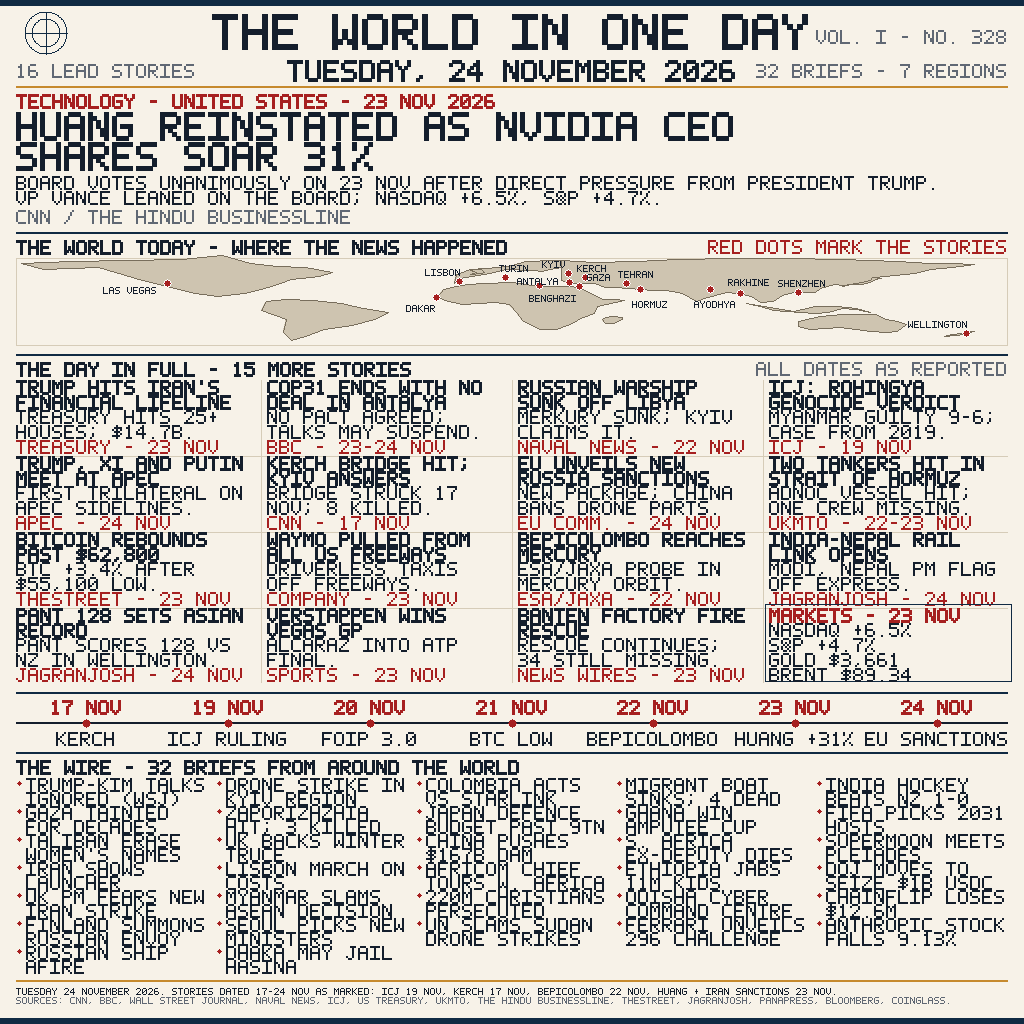
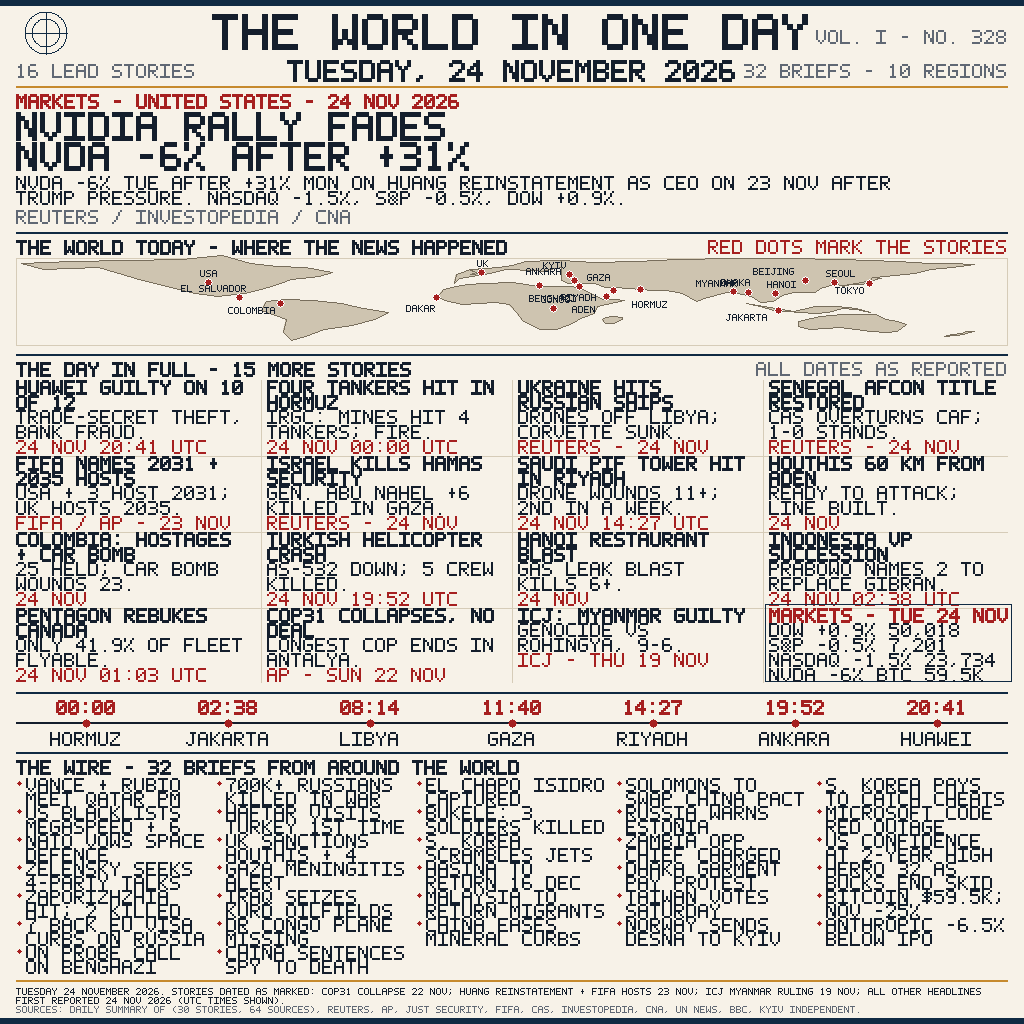
Revise front page to research pack v2: Nvidia rally fades as 24 Nov main story, 16 v2 leads, 32 v2 briefs, 24 Nov UTC timeline, corrected in-line dates (ICJ 19 Nov, COP31 22 Nov, Huang/FIFA 23 Nov)

diff --git a/main.py b/main.py
@@ -3,14 +3,14 @@
 in one 1024x1024 PNG. Python 3.13, standard library only, no network,
 fully deterministic (same bytes on every run).
 
-Draws a dense newspaper front page, in code, from the research pack:
-a masthead naming the day, the verified main story (Huang reinstated at
-Nvidia, shares +31%, 23 Nov), a schematic world map with the stories
-plotted, 15 more lead stories in four columns, a 17-24 Nov UTC timeline,
-32 wire briefs, and a date-check footer that dates every older story
-in-line (ICJ 19 Nov, Kerch Bridge 17 Nov, BepiColombo 22 Nov, Huang and
-Iran sanctions 23 Nov). No story is dated 24 Nov unless it happened or
-was first reported on 24 Nov.
+Draws a dense newspaper front page, in code, from the research pack v2:
+a masthead naming the day, the verified main story (Nvidia rally fades
+24 Nov: NVDA -6% after +31% Mon on Huang's reinstatement, 23 Nov), a
+schematic world map with the stories plotted, 15 more lead stories in
+four columns, a 24 Nov UTC timeline, 32 wire briefs, and a date-check
+footer that dates every older story in-line (ICJ 19 Nov, COP31 22 Nov,
+Huang and FIFA hosts 23 Nov). No story is dated 24 Nov unless it
+happened or was first reported on 24 Nov.
 
 Rendering is hand-rolled: a 5x7 bitmap font drawn at several scales, a
 scanline polygon filler for the map, and a small PNG encoder. Nothing is
@@ -330,21 +330,26 @@ CONTINENTS = [
 # (lon, lat, label, label dx, label dy) - dots mark the lead stories.
 # Labels are drawn at scale 1; dx/dy keep them off the dot and off land.
 MAP_DOTS = [
-    (-115.1, 36.2, "LAS VEGAS", -64, 4),
-    (114.0, 22.5, "SHENZHEN", -20, -12),
-    (36.5, 45.3, "KERCH", -8, -12),
+    (-100.0, 38.0, "USA", -8, -12),
+    (-74.0, 4.6, "COLOMBIA", -52, 4),
+    (-88.9, 13.7, "EL SALVADOR", -58, -12),
+    (-1.0, 52.0, "UK", -4, -12),
+    (31.0, 49.0, "KYIV", -26, -12),
     (20.0, 32.1, "BENGHAZI", -10, 10),
-    (51.4, 35.7, "TEHRAN", -8, -12),
-    (30.7, 36.9, "ANTALYA", -52, -4),
-    (82.2, 26.8, "AYODHYA", -16, 12),
-    (174.8, -41.3, "WELLINGTON", -58, -12),
     (34.5, 31.5, "GAZA", 8, -12),
-    (-9.1, 38.7, "LISBON", -34, -12),
-    (93.0, 20.0, "RAKHINE", -12, -14),
-    (30.5, 50.5, "KYIV", -26, -12),
+    (46.7, 24.6, "RIYADH", -52, 4),
+    (44.2, 15.3, "ADEN", -34, 10),
     (56.5, 26.5, "HORMUZ", -8, 12),
-    (7.7, 45.0, "TURIN", -6, -12),
+    (32.8, 39.9, "ANKARA", -48, -12),
+    (25.0, -2.0, "CONGO", -12, -12),
     (-17.4, 14.7, "DAKAR", -30, 8),
+    (90.4, 23.8, "DHAKA", -12, -12),
+    (96.0, 21.9, "MYANMAR", -52, -12),
+    (106.8, -6.2, "JAKARTA", -52, 4),
+    (105.8, 21.0, "HANOI", -8, -12),
+    (116.4, 39.9, "BEIJING", -52, -12),
+    (127.0, 37.5, "SEOUL", -8, -12),
+    (139.7, 35.7, "TOKYO", -34, 4),
 ]
 
 # ---------------------------------------------------------------- content
@@ -356,126 +361,127 @@ MAP_DOTS = [
 # (12px per character); briefs wrap at 15 characters for their 190px
 # columns.
 MAIN = {
-    "kicker": "TECHNOLOGY - UNITED STATES - 23 NOV 2026",
-    "headline": ["HUANG REINSTATED AS NVIDIA CEO",
-                 "SHARES SOAR 31%"],
-    "summary": ("BOARD VOTES UNANIMOUSLY ON 23 NOV AFTER DIRECT PRESSURE "
-                "FROM PRESIDENT TRUMP. VP VANCE LEANED ON THE BOARD; "
-                "NASDAQ +6.5%, S&P +4.7%."),
-    "source": "CNN / THE HINDU BUSINESSLINE",
+    "kicker": "MARKETS - UNITED STATES - 24 NOV 2026",
+    "headline": ["NVIDIA RALLY FADES",
+                 "NVDA -6% AFTER +31%"],
+    "summary": ("NVDA -6% TUE AFTER +31% MON ON HUANG REINSTATEMENT AS CEO "
+                "ON 23 NOV AFTER TRUMP PRESSURE. NASDAQ -1.5%, S&P -0.5%, "
+                "DOW +0.9%."),
+    "source": "REUTERS / INVESTOPEDIA / CNA",
 }
 
 # (headline, summary, source + date) - leads 2..16, in research-pack order.
 LEADS = [
-    ("TRUMP HITS IRAN'S FINANCIAL LIFELINE",
-     "TREASURY HITS 25+ HOUSES; $14.7B.",
-     "TREASURY - 23 NOV"),
-    ("COP31 ENDS WITH NO DEAL IN ANTALYA",
-     "NO PACT AGREED; TALKS MAY SUSPEND.",
-     "BBC - 23-24 NOV"),
-    ("RUSSIAN WARSHIP SUNK OFF LIBYA",
-     "MERKURY SUNK; KYIV CLAIMS IT.",
-     "NAVAL NEWS - 22 NOV"),
-    ("ICJ: ROHINGYA GENOCIDE VERDICT",
-     "MYANMAR GUILTY 9-6; CASE FROM 2019.",
-     "ICJ - 19 NOV"),
-    ("TRUMP, XI AND PUTIN MEET AT APEC",
-     "FIRST TRILATERAL ON APEC SIDELINES.",
-     "APEC - 24 NOV"),
-    ("KERCH BRIDGE HIT; KYIV ANSWERS",
-     "BRIDGE STRUCK 17 NOV; 8 KILLED.",
-     "CNN - 17 NOV"),
-    ("EU UNVEILS NEW RUSSIA SANCTIONS",
-     "NEW PACKAGE; CHINA BANS DRONE PARTS.",
-     "EU COMM. - 24 NOV"),
-    ("TWO TANKERS HIT IN STRAIT OF HORMUZ",
-     "ADNOC VESSEL HIT; ONE CREW MISSING.",
-     "UKMTO - 22-23 NOV"),
-    ("BITCOIN REBOUNDS PAST $62,800",
-     "BTC +3.4% AFTER $55,100 LOW.",
-     "THESTREET - 23 NOV"),
-    ("WAYMO PULLED FROM ALL US FREEWAYS",
-     "DRIVERLESS TAXIS OFF FREEWAYS.",
-     "COMPANY - 23 NOV"),
-    ("BEPICOLOMBO REACHES MERCURY",
-     "ESA/JAXA PROBE IN MERCURY ORBIT.",
-     "ESA/JAXA - 22 NOV"),
-    ("INDIA-NEPAL RAIL LINK OPENS",
-     "MODI, NEPAL PM FLAG OFF EXPRESS.",
-     "JAGRANJOSH - 24 NOV"),
-    ("PANT 128 SETS ASIAN RECORD",
-     "PANT SCORES 128 VS NZ IN WELLINGTON.",
-     "JAGRANJOSH - 24 NOV"),
-    ("VERSTAPPEN WINS VEGAS GP",
-     "ALCARAZ INTO ATP FINAL.",
-     "SPORTS - 23 NOV"),
-    ("BANTEN FACTORY FIRE RESCUE",
-     "RESCUE CONTINUES; 34 STILL MISSING.",
-     "NEWS WIRES - 23 NOV"),
+    ("HUAWEI GUILTY ON 10 OF 12",
+     "TRADE-SECRET THEFT, BANK FRAUD.",
+     "24 NOV 20:41 UTC"),
+    ("FOUR TANKERS HIT IN HORMUZ",
+     "IRGC: MINES HIT 4 TANKERS; FIRE.",
+     "24 NOV 00:00 UTC"),
+    ("UKRAINE HITS RUSSIAN SHIPS",
+     "DRONES OFF LIBYA; CORVETTE SUNK.",
+     "REUTERS - 24 NOV"),
+    ("SENEGAL AFCON TITLE RESTORED",
+     "CAS OVERTURNS CAF; 1-0 STANDS.",
+     "REUTERS - 24 NOV"),
+    ("FIFA NAMES 2031 + 2035 HOSTS",
+     "USA + 3 HOST 2031; UK HOSTS 2035.",
+     "FIFA / AP - 23 NOV"),
+    ("ISRAEL KILLS HAMAS SECURITY",
+     "GEN. ABU NAHEL +6 KILLED IN GAZA.",
+     "REUTERS - 24 NOV"),
+    ("SAUDI PIF TOWER HIT IN RIYADH",
+     "DRONE WOUNDS 11+; 2ND IN A WEEK.",
+     "24 NOV 14:27 UTC"),
+    ("HOUTHIS 60 KM FROM ADEN",
+     "READY TO ATTACK; LINE BUILT.",
+     "24 NOV"),
+    ("COLOMBIA: HOSTAGES + CAR BOMB",
+     "25 HELD; CAR BOMB WOUNDS 23.",
+     "24 NOV"),
+    ("TURKISH HELICOPTER CRASH",
+     "AS-532 DOWN; 5 CREW KILLED.",
+     "24 NOV 19:52 UTC"),
+    ("HANOI RESTAURANT BLAST",
+     "GAS LEAK BLAST KILLS 6+.",
+     "24 NOV"),
+    ("INDONESIA VP SUCCESSION",
+     "PRABOWO NAMES 2 TO REPLACE GIBRAN.",
+     "24 NOV 02:38 UTC"),
+    ("PENTAGON REBUKES CANADA",
+     "ONLY 41.9% OF FLEET FLYABLE.",
+     "24 NOV 01:03 UTC"),
+    ("COP31 COLLAPSES, NO DEAL",
+     "LONGEST COP ENDS IN ANTALYA.",
+     "AP - SUN 22 NOV"),
+    ("ICJ: MYANMAR GUILTY",
+     "GENOCIDE VS ROHINGYA, 9-6.",
+     "ICJ - THU 19 NOV"),
 ]
 
 MARKETS = [
-    "MARKETS - 23 NOV",
-    "NASDAQ +6.5%",
-    "S&P +4.7%",
-    "GOLD $3,661",
-    "BRENT $89.34",
+    "MARKETS - TUE 24 NOV",
+    "DOW +0.9% 50,018",
+    "S&P -0.5% 7,201",
+    "NASDAQ -1.5% 23,734",
+    "NVDA -6% BTC 59.5K",
 ]
 
-# (date, label) - one tick per day, 17-24 Nov 2026.
+# (time, label) - first-reported UTC times on 24 Nov 2026.
 TIMELINE = [
-    ("17 NOV", "KERCH"),
-    ("19 NOV", "ICJ RULING"),
-    ("20 NOV", "FOIP 3.0"),
-    ("21 NOV", "BTC LOW"),
-    ("22 NOV", "BEPICOLOMBO"),
-    ("23 NOV", "HUANG +31%"),
-    ("24 NOV", "EU SANCTIONS"),
+    ("00:00", "HORMUZ"),
+    ("02:38", "JAKARTA"),
+    ("08:14", "LIBYA"),
+    ("11:40", "GAZA"),
+    ("14:27", "RIYADH"),
+    ("19:52", "ANKARA"),
+    ("20:41", "HUAWEI"),
 ]
 
-# 32 wire briefs, each at most 34 chars so it fits two lines in a
+# 32 wire briefs, each at most 30 chars so it fits two lines in a
 # five-column grid.
 BRIEFS = [
-    "TRUMP-KIM TALKS IGNORED (WSJ)",
-    "GAZA TAINTED FOR DECADES",
-    "TALIBAN ERASE WOMEN'S NAMES",
-    "IRAN SHOWS LAUNCHER",
-    "UK PM FEARS NEW IRAN STRIKE",
-    "FINLAND SUMMONS RUSSIAN ENVOY",
-    "RUSSIAN SHIP AFIRE",
-    "DRONE STRIKE IN KYIV REGION",
-    "ZAPORIZHZHIA HIT; 3 KILLED",
-    "UK BACKS WINTER TRUCE",
-    "LISBON MARCH ON COSTS",
-    "MYANMAR SLAMS ASEAN DECISION",
-    "SEOUL PICKS NEW MINISTERS",
-    "DHAKA MAY JAIL HASINA",
-    "COLOMBIA ACTS VS STARLINK",
-    "JAPAN DEFENCE BUDGET PAST 9TN",
-    "CHINA PUSHES $167B DAM",
-    "AFRICOM CHIEF TOURS W. AFRICA",
-    "220M CHRISTIANS PERSECUTED",
-    "UN SLAMS SUDAN DRONE STRIKES",
-    "MIGRANT BOAT SINKS; 4 DEAD",
-    "GHANA WIN AMPUTEE CUP",
-    "S. AFRICA EX-DEPUTY DIES",
-    "ETHIOPIA JABS 11M KIDS",
-    "ODISHA CYBER COMMAND CENTRE",
-    "FERRARI UNVEILS 296 CHALLENGE",
-    "INDIA HOCKEY BEATS NZ 1-0",
-    "FIFA PICKS 2031 HOSTS",
-    "SUPERMOON MEETS PLEIADES",
-    "DOJ MOVES TO SEIZE $1B USDC",
-    "CHAINFLIP LOSES $12.6M",
-    "ANTHROPIC STOCK FALLS 9.13%",
+    "VANCE + RUBIO MEET QATAR PM",
+    "US BLACKLISTS MEGASPEED + 6",
+    "NATO VOWS SPACE DEFENCE",
+    "ZELENSKY SEEKS 4-PARTY TALKS",
+    "ZAPORIZHZHIA HIT; 2 KILLED",
+    "7 BACK EU VISA CURBS ON RUSSIA",
+    "UN PROBE CALL ON BENGHAZI",
+    "700K+ RUSSIANS KILLED IN WAR",
+    "HAFTAR VISITS TURKEY 1ST TIME",
+    "UK SANCTIONS HOUTHIS + 4",
+    "GAZA MENINGITIS ALERT",
+    "IRAQ SEIZES KURD OILFIELDS",
+    "DR CONGO PLANE MISSING",
+    "CHINA SENTENCES SPY TO DEATH",
+    "EL CHAPO ISIDRO CAPTURED",
+    "BUKELE: 3 SOLDIERS KILLED",
+    "S. KOREA SCRAMBLES JETS",
+    "HASINA TO RETURN 16 DEC",
+    "MALAYSIA TO RETURN MIGRANTS",
+    "CHINA EASES MINERAL CURBS",
+    "SOLOMONS TO SWAP CHINA PACT",
+    "RUSSIA WARNS ESTONIA",
+    "ZAMBIA OPP. CHIEF CHARGED",
+    "DHAKA GARMENT PAY PROTEST",
+    "TAIWAN VOTES SATURDAY",
+    "NORWAY SENDS DESNA TO KYIV",
+    "S. KOREA PAYS TO CATCH CHEATS",
+    "MICROSOFT CODE RED OUTAGE",
+    "US CONFIDENCE AT 2-YEAR HIGH",
+    "HERRO 32 AS BUCKS END SKID",
+    "BITCOIN $59.5K; NOV -25%",
+    "ANTHROPIC -6.5% BELOW IPO",
 ]
 
-FOOTER_DATE = ("TUESDAY 24 NOVEMBER 2026. STORIES DATED 17-24 NOV AS MARKED: "
-               "ICJ 19 NOV, KERCH 17 NOV, BEPICOLOMBO 22 NOV, "
-               "HUANG + IRAN SANCTIONS 23 NOV.")
-FOOTER_SOURCES = ("SOURCES: CNN, BBC, WALL STREET JOURNAL, NAVAL NEWS, ICJ, US TREASURY, "
-                  "UKMTO, THE HINDU BUSINESSLINE, THESTREET, JAGRANJOSH, PANAPRESS, "
-                  "BLOOMBERG, COINGLASS.")
+FOOTER_DATE = ("TUESDAY 24 NOVEMBER 2026. STORIES DATED AS MARKED: "
+               "COP31 COLLAPSE 22 NOV; HUANG REINSTATEMENT + FIFA HOSTS "
+               "23 NOV; ICJ MYANMAR RULING 19 NOV; ALL OTHER HEADLINES "
+               "FIRST REPORTED 24 NOV 2026 (UTC TIMES SHOWN).")
+FOOTER_SOURCES = ("SOURCES: DAILY SUMMARY OF (30 STORIES, 64 SOURCES), "
+                  "REUTERS, AP, JUST SECURITY, FIFA, CAS, INVESTOPEDIA, "
+                  "CNA, UN NEWS, BBC, KYIV INDEPENDENT.")
 
 # ---------------------------------------------------------------- layout
 MX = 16            # side margin
@@ -497,7 +503,7 @@ def draw_masthead(cv):
     cv.text_at(MX, 64, "16 LEAD STORIES", 2, MUTED)
     cv.text_at(W // 2, 60, "TUESDAY, 24 NOVEMBER 2026", 3, INK,
                align="center", bold=True)
-    cv.text_at(RX, 64, "32 BRIEFS - 7 REGIONS", 2, MUTED, align="right")
+    cv.text_at(RX, 64, "32 BRIEFS - 10 REGIONS", 2, MUTED, align="right")
     cv.rule(MX, 86, CW, GOLD, 2)
 
 

diff --git a/README.md b/README.md
@@ -8,11 +8,15 @@ A newspaper front page that sums up the world news of **Tuesday 24 November 2026
 
 ## What the image shows
 
-- **Main story:** Jensen Huang reinstated as Nvidia CEO on 23 Nov after direct pressure from President Trump — shares +31%, Nasdaq +6.5%, S&P +4.7% (CNN / The Hindu BusinessLine).
-- **A schematic world map** with red dots marking where the stories happened, from Las Vegas to Wellington.
-- **15 more lead stories** from every region and field: Iran sanctions, COP31 ending with no deal, a Russian warship sunk off Libya, the ICJ's Rohingya genocide verdict, the APEC trilateral, the Kerch Bridge strike, EU sanctions, tankers hit in Hormuz, Bitcoin's rebound, Waymo off US freeways, BepiColombo at Mercury, the India–Nepal rail link, Pant's 128, Verstappen in Vegas, and the Banten factory fire rescue.
-- **A 17–24 Nov UTC timeline** and **32 wire briefs** from around the world.
-- **A date-check footer:** every older story is dated in-line — ICJ ruling 19 Nov, Kerch Bridge strike 17 Nov, BepiColombo orbit 22 Nov, Huang reinstatement and Iran sanctions 23 Nov — so nothing is presented as 24 Nov news unless it happened or was first reported on 24 Nov.
+- **Main story:** the Nvidia rally fades on Tue 24 Nov — NVDA −6% after +31% on Mon, when Jensen Huang was reinstated as CEO on 23 Nov after direct pressure from President Trump (Reuters / Investopedia / CNA).
+- **A schematic world map** with red dots marking where the stories happened, from the USA to Tokyo.
+- **15 more lead stories** from every region: Huawei convicted on 10 of 12 counts, four tankers hit by mines in Hormuz, Ukraine's naval drones off Libya, Senegal's AFCON title restored by CAS, FIFA naming the 2031 and 2035 Women's World Cup hosts, the Hamas security chief killed in Gaza, the PIF tower hit in Riyadh, Houthis 60 km from Aden, the Colombia hostage crisis and car bomb, the Turkish helicopter crash, the Hanoi restaurant blast, Indonesia's VP succession, the Pentagon rebuking Canada, COP31 collapsing with no deal (22 Nov), and the ICJ's Myanmar genocide ruling (19 Nov).
+- **A 24 Nov UTC timeline** and **32 wire briefs** from around the world.
+- **A date-check footer:** every older story is dated in-line — ICJ ruling 19 Nov, COP31 collapse 22 Nov, Huang reinstatement and FIFA hosts 23 Nov — so nothing is presented as 24 Nov news unless it happened or was first reported on 24 Nov.
+
+## Research
+
+Revision 2 (25 Nov 2026), re-researched from scratch against Daily Summary Of (final edition 24 Nov 2026, 30 stories / 64 sources, each with a first-reported UTC time), Reuters (24 Nov), Just Security Early Edition 24 Nov 2026, FIFA, CAS/Reuters sport wires, and Investopedia + Reuters Trading Day (24 Nov close). Research pack: `../news-image-20261124-research-v2.md` in the workspace.
 
 ## How it was made
 
